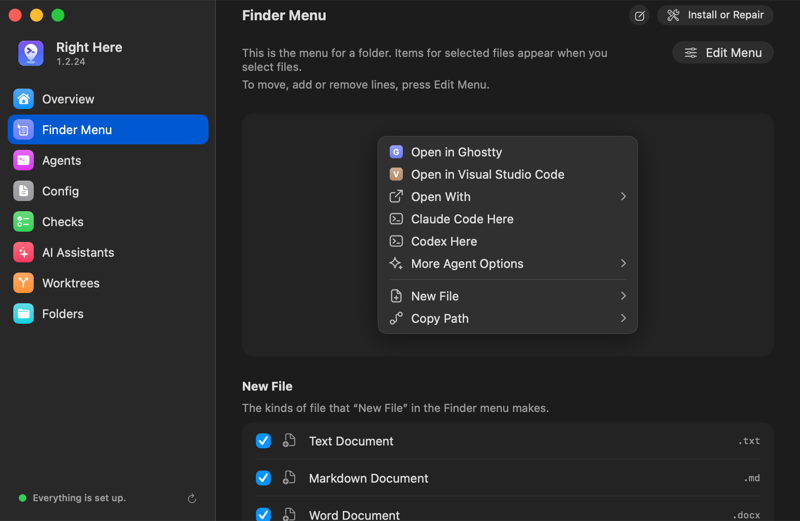
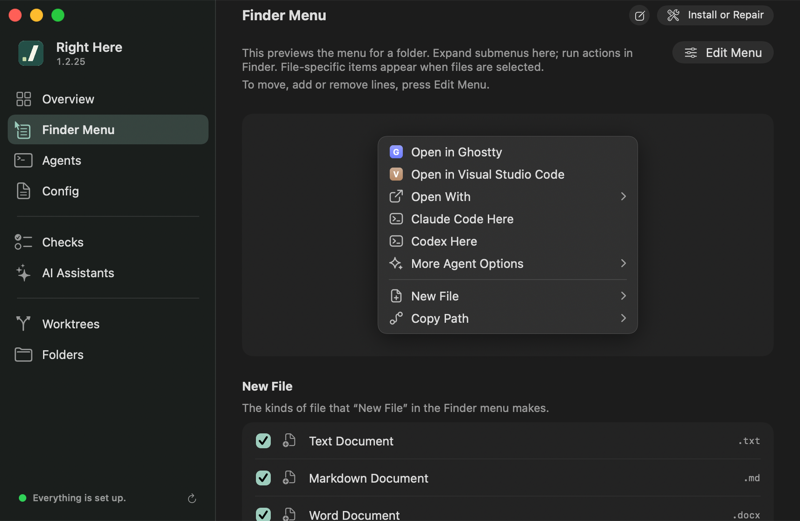
Validate the combined window with fresh native previews

diff --git a/Apps/RightHere/SetupPages.swift b/Apps/RightHere/SetupPages.swift
@@ -528,9 +528,11 @@ struct FirstRunCard: View {
                     .font(.callout)
                     .foregroundStyle(.secondary)
                     .fixedSize(horizontal: false, vertical: true)
-                Button(l10n.string(.appShowChecks)) { model.select(.checks) }
-                    .buttonStyle(.bordered)
-                    .controlSize(.small)
+                if action == .extensionSettings || action == .repair {
+                    Button(l10n.string(.appShowChecks)) { model.select(.checks) }
+                        .buttonStyle(.bordered)
+                        .controlSize(.small)
+                }
             }
             DisclosureGroup {
                 Text(l10n.string(.appQuickActionsBody))

diff --git a/Apps/RightHere/SetupModel.swift b/Apps/RightHere/SetupModel.swift
@@ -1416,7 +1416,11 @@ final class SetupModel {
     func simulateExtensionOff() {
         checks = checks.map { check in
             var copy = check
-            if check.id == .finderExtension { copy.status = .needsUser }
+            if check.id == .finderExtension {
+                copy.status = .needsUser
+                copy.detail = .doctorExtensionDisabled
+                copy.fix = .doctorFixExtensionEnable
+            }
             return copy
         }
     }

diff --git a/script/verify_localizations.py b/script/verify_localizations.py
@@ -46,7 +46,7 @@ MESSAGES_FILE = SWIFT_DIRECTORY / "LocalizedMessage.generated.swift"
 # system by key (and table) from the app bundle, not compiled into Swift.
 # A line that names a catalog entry may show it as code (`Prose(key: .appNoPinned, ..)`, `DoctorText.styled(..)`) or map something to it
 # (`case .cliLink: .appSetupCommandLink`, whose display is the place that styles it).
-STYLED_USE = re.compile(r"\bProse\(|\bstyled\(|^\s*case\b.*:\s*\.\w+\s*$")
+STYLED_USE = re.compile(r"\bProse\(|\bstyled\(|^\s*case\b.*:\s*\.\w+\s*$|^\s*\w+\.fix\s*=\s*\.\w+\s*$")
 RESOURCE = re.compile(r'LocalizedStringResource\(\s*"([^"]+)"\s*,\s*defaultValue:\s*"((?:[^"\\]|\\.)*)"(?:\s*,\s*table:\s*"([^"]+)")?')
 
 
@@ -183,12 +183,12 @@ def unstyled_uses_of(source: str, names: set[str]) -> list[tuple[int, str]]:
 
 def check_code_in_plain_text(strings: dict, problems: list[str]) -> None:
     """The window shows a command between backticks as code (`Prose`, `DoctorText.styled`); in a plain `Text` the backticks would be on the
-    screen, which is what the AI assistants section did with `rh setup` once. So a catalog entry with a command in it is named in Apps/ only
-    where it is shown as code or mapped to (a `case` that returns it). A net, not a proof: the `Text` that shows a mapped key is not looked at."""
+    screen, which is what the AI assistants section did with `rh setup` once. A case returning a message or an assignment to a check's fix
+    is metadata: CheckRow styles it when displayed. A net, not a proof: the Text that shows a mapped key is not looked at."""
     english = source_language()
     names = {case_name(key): key for key, entry in strings.items() if "`" in entry["localizations"][english]["stringUnit"]["value"]}
     fixture = ["section(.a, .b) { go() }", "Prose(key: .b, home: home)", "case .cli: .b", "Text(DoctorText.styled(l10n.string(.b), home: home))",
-               "Text(l10n.string(.b))", "Text(l10n.string(.c))"]
+               "Text(l10n.string(.b))", "Text(l10n.string(.c))", "copy.fix = .b"]
     found = unstyled_uses_of("\n".join(fixture), {"b"})
     if found != [(1, "b"), (5, "b")]:
         problems.append(f"check_code_in_plain_text: the self test found {found}, expected [(1, 'b'), (5, 'b')]")

diff --git a/docs/development/RECONCILIATION.md b/docs/development/RECONCILIATION.md
@@ -9,6 +9,7 @@ The published main was not replaced. Both lines remain available.
 
 The combined version starts from current main. Useful behavior is rewritten against its contracts.
 The older tree is a source of ideas and regression cases, not a replacement tree.
+The contributor entry point now requires fetching and comparing the live main before new development.
 
 ## Product foundation
 
@@ -54,6 +55,44 @@ The first integrated state passes 2,802 tests and builds the app and Finder exte
 current main for invalid saved-folder fields and vanished first-run app choices. The work also checks failed reads in the
 window loader, CLI and MCP, preserves unreadable bytes, and keeps saved-folder writes within the readable byte limit.
 
-Further behavioral ports and their native verification are still in progress. The old line's 1,775-test result and mutation
-sweep are not validation of this tree. The current mutation list has more than twelve hundred entries; matching patterns is
-not a completed mutation run. Changed protections need targeted removal tests against a committed combined tree.
+The integrated behavioral revision passes 2,831 tests: 1,176 Core, 1,068 Kit, 116 MCP, 188 CLI and 283 app-model tests. The extra
+47 tests are relative to the exact current base. Newly reproduced regressions include quiet-period config changes, external-editor
+file selection, draft conflict refresh and worktree context, alongside the first-run and saved-state failures above. App-model
+tests now run in GitHub CI too.
+
+Seventeen targeted protection-removal runs passed against committed combined revisions: 437, 535, 1029, 1030, 1105 and 1248–1251
+at `2af79bb`; 292, 307, 520, 528, 870, 1028, 1252 and 1253 at `d156047`. Each removed protection made a relevant test fail.
+The list has 1,254 matching entries; this is not a claim that all 1,254 were run. The old line's 1,775-test result and mutation sweep
+are historical evidence only.
+
+## Native acceptance
+
+Interactive checks used a separate review bundle, temporary home, fake system facts and fake process runner on macOS 27.2
+(26B123), Xcode 27.2 (27B52). No terminal, editor or Finder extension belonging to the person was controlled or installed by the
+review. Worktree deletion with real git remains a regression test in temporary repositories.
+
+- First-run app pickers opened and changed their values. More AI agents exposed all remaining choices, including OpenCode.
+  Setup retained a checked missing agent and put the remaining Finder action first.
+- A settings menu changed the default terminal, wrote the temporary config and exposed Undo. Undo restored the previous value.
+- Command-F focused folder search and selected its current query. `resume` matched `Résumé 2026`. A no-match query had its own
+  explanation and Clear Search; another section and back retained it. Escape cleared it.
+- Worktrees showed complete branch/path identity in accessibility and confirmation. The second question named `.env` and the
+  same worktree; Cancel retained the row. Repository switching and a failed listing followed by Try Again worked.
+- An external comment change kept a native text-editor draft, displayed the conflict and disabled Save. An overlay error's Config
+  action preserved the shared draft with an explanation; after Revert it selected This Mac Only and displayed the diagnosed text.
+  A regression also clears the now-obsolete save-or-revert notice.
+- A malformed saved-folder file showed its error, source-file action and Refresh. Repairing the temporary file and pressing Refresh
+  restored the list. A long operation error kept navigation visible and opened a bounded, selectable details popover with reachable
+  Copy Message and Dismiss controls.
+- Switching from a scrolled page reset its successor to the top. Scroll content stopped at the fixed header after clipping was added.
+  The Checks accessibility tree retained diagnostic text, status and fix actions; its current-main implementation was kept.
+- An app-local red system-accent preference changed selection, checkboxes and the default button. Forest remains the default when
+  the system allows an app accent. Offscreen native pictures cover light/dark, Arabic flow and German long text at the minimum width.
+
+Full Tab navigation, spoken VoiceOver, increased-contrast preferences and native-speaker translation review remain the manual
+checks they were before this integration. Offscreen native controls draw as an inactive window; their grey selection is not a
+disabled interactive control. Xcode 26 is not installed locally; the local gate reports that supported-floor build as skipped,
+and CI's macOS 26 job builds the app and extension.
+
+The preview source list was also repaired: both modes link current sources, removing stale links from an older checkout, and the
+pre-push gate builds and renders both the stand-in and native-control modes. README pictures are regenerated from the combined view.

diff --git a/docs/decisions/0034-reconcile-the-window-on-current-main.md b/docs/decisions/0034-reconcile-the-window-on-current-main.md
@@ -1,6 +1,6 @@
 # 0034: Reconcile the window on current main
 
-Date: 2026-11-16. Status: implementation in progress.
+Date: 2026-11-16. Status: accepted.
 
 ## Choice
 
@@ -19,6 +19,22 @@ hide the choices. Setup's phase feedback remains visible.
 Saved-folder reads distinguish absence from failure. Invalid field types and unknown fields refuse an update before its
 closure runs. Writes respect the same byte limit as reads. The folder page offers the source file and a retry after failure.
 
+The remaining Finder setup action leads after a successful setup. Its button follows the actual diagnostic: Settings for a disabled
+extension, Repair when installation needs repair. A successful report is a disclosure below it; new warnings expand the report again.
+Failed reports remain above the chooser. Menu preview text distinguishes expanding submenus here from running actions in Finder.
+
+Folder search matches names and paths, keeps the person's query across visits and supports Command-F and Escape. Long operation
+messages occupy a compact sidebar button; a bounded popover exposes their complete text, Copy Message and Dismiss.
+
+Config recovery chooses the diagnosed shared or local file without throwing away a draft. The external editor opens the file selected
+on the Config page. Activation compares the bounded sources a read consumed, including comments and link destinations. Changed
+settings queue a new read even during the quiet period or an existing read. Comment-only edits refresh the editor and conflict state
+without running the login shell. A GUI edit's newer state still wins over an older doctor's answer.
+
+Worktree questions capture their repository and complete identity. Switching repositories clears the old actionable rows at once;
+manual choices remain available in the window. Removal stays busy through its final listing. Ignored-file confirmation retains the
+same captured repository and the exact files the person agreed to lose. Read failures have a local retry.
+
 ## Alternatives
 
 Replacing the published tree with the earlier tree would remove newer capabilities and protections. Merging unrelated
@@ -30,7 +46,7 @@ readiness hero. The earlier single-accent navigation gives those settings a clea
 
 ## Evidence
 
-The combined native window on macOS 26 reproduced a settings menu that exposed its value through accessibility but did not open
+The combined native window on macOS 27.2 (26B123) reproduced a settings menu that exposed its value through accessibility but did not open
 with a click or keyboard input. The `.menuStyle(.button)` plus `.buttonStyle(.plain)` combination was responsible: a standard pop-up
 Picker opened and changed the same first-run binding. `ChoiceMenu` now uses `.borderlessButton` with no hand-drawn indicator in its
 label; AppKit supplies the indicator. Its menu opened, choosing Terminal saved the value, and Undo restored Ghostty in the same
@@ -40,7 +56,11 @@ as the label's first image. The whole-row borderless-button restriction remains.
 Switching from a scrolled Overview to Finder Menu displayed the new page at its top. Scrolling also exposed content drawing over
 the compact header; the page now clips its scroll content at the header boundary.
 
-The review compares actual renders of both versions. Current-main tests establish the base independently of old-branch
-results. Regressions cover the specific state changes and safety conditions. Native controls, keyboard focus, accessibility,
-appearance overrides and remaining workflow ports are being checked separately; final evidence belongs in the manual checks
-and reconciliation record.
+The review compares actual renders of both versions. The combined native review verified selection, save and Undo, search and its
+focus shortcuts, draft conflicts and recovery routing, worktree confirmation and cancellation, failed-read retries, scrolling and
+an app-local red system-accent override. It inspected accessibility roles, descriptions and actions; spoken VoiceOver and full Tab
+navigation remain manual checks. English, German and Arabic offscreen native renders cover layout separately from active interaction.
+
+Both preview modes now enumerate current view sources and remove old symlinks. The former fixed list omitted a newly added file;
+a stale link let one cached preview build while a fresh native preview failed. The pre-push gate now builds and renders both modes.
+Current-base tests and targeted mutation runs are recorded in [the reconciliation record](../development/RECONCILIATION.md).

diff --git a/docs/development/MANUAL_CHECKS.md b/docs/development/MANUAL_CHECKS.md
@@ -155,7 +155,7 @@ they never open one. The preview is the same code as the extension's, not Finder
    - Once opened, it says "expanded".
    - An entry reads its title only.
 7. Overview is the first section.
-   - While the Finder extension is off, it shows the three-step first-run card first.
+   - While the Finder extension is off, it shows its remaining action first: Settings to turn it on, or Repair when installation needs repair.
    - Once the extension is on, it shows the status and the default terminal and editor.
    - "Finder Menu" is always the menu for a folder.
 8. Open Worktrees.
@@ -183,7 +183,7 @@ they never open one. The preview is the same code as the extension's, not Finder
     - Overview checks the ones that your login shell finds.
     - Choose and press Set Up. `rh config show` has what you chose.
     - "What Right Here set up" lists the pieces.
-    - The three-step card waits for the Finder extension, as in item 7.
+    - The Finder setup card waits for the extension, as in item 7. Ordinary successful setup records are a disclosure below it; new warnings expand it.
     - Open the window again with a config in place. The chooser is gone.
     - Nothing rewrites the file. Compare it byte for byte.
     - `script/preview_setup.sh --first-run` shows the card without a screen. This check is the real window, once.

diff --git a/docs/DESIGN.md b/docs/DESIGN.md
@@ -399,7 +399,9 @@ and variants, `disabled` to remove ids), and `rh config sync` copies `config.tom
    (`Installer.heldByThePerson`); a pulled config can choose titles, and a swap would delete what had the name.
 12. Files that any program of the person's can write and that Right Here reads on a click are read only once their size is known
    (`BoundedRead`): the state file each `rh run` reads (and the `rh pins` and `rh recents` that Shortcuts starts), and the probe
-   request the Finder extension reads in its `init`, on the main thread.
+   request the Finder extension reads in its `init`, on the main thread. Saved-folder updates refuse unreadable or invalid documents
+   (including unknown keys and wrong field types) before mutation, and refuse an encoded write above the readable limit. The window,
+   CLI and MCP report a failed read instead of presenting an empty list; see [0034](decisions/0034-reconcile-the-window-on-current-main.md).
 13. Shortcuts runs an app's actions without asking, so Start AI Agent asks before an agent that starts without asking starts in a
    folder the person did not pin; see [0030](decisions/0030-saved-folders-for-shortcuts.md).
 

diff --git a/docs/INDEX.md b/docs/INDEX.md
@@ -17,6 +17,10 @@
 
 ## For contributors
 
+Before new development, run `git fetch origin`, inspect `git status --short --branch` and compare the checkout with `origin/main`.
+Start from the current main. Preserve work on an older line separately and compare its behavior and contracts before adapting it;
+a cached remote-tracking ref does not establish the current baseline.
+
 - [`../CONTRIBUTING.md`](../CONTRIBUTING.md): how to build, test and contribute.
 - [`../CLAUDE.md`](../CLAUDE.md): the rules for coding agents that work in this repository.
 - [`DESIGN.md`](DESIGN.md): the architecture, the decisions, and the facts about the platform that we verified. Section 9 lists the
